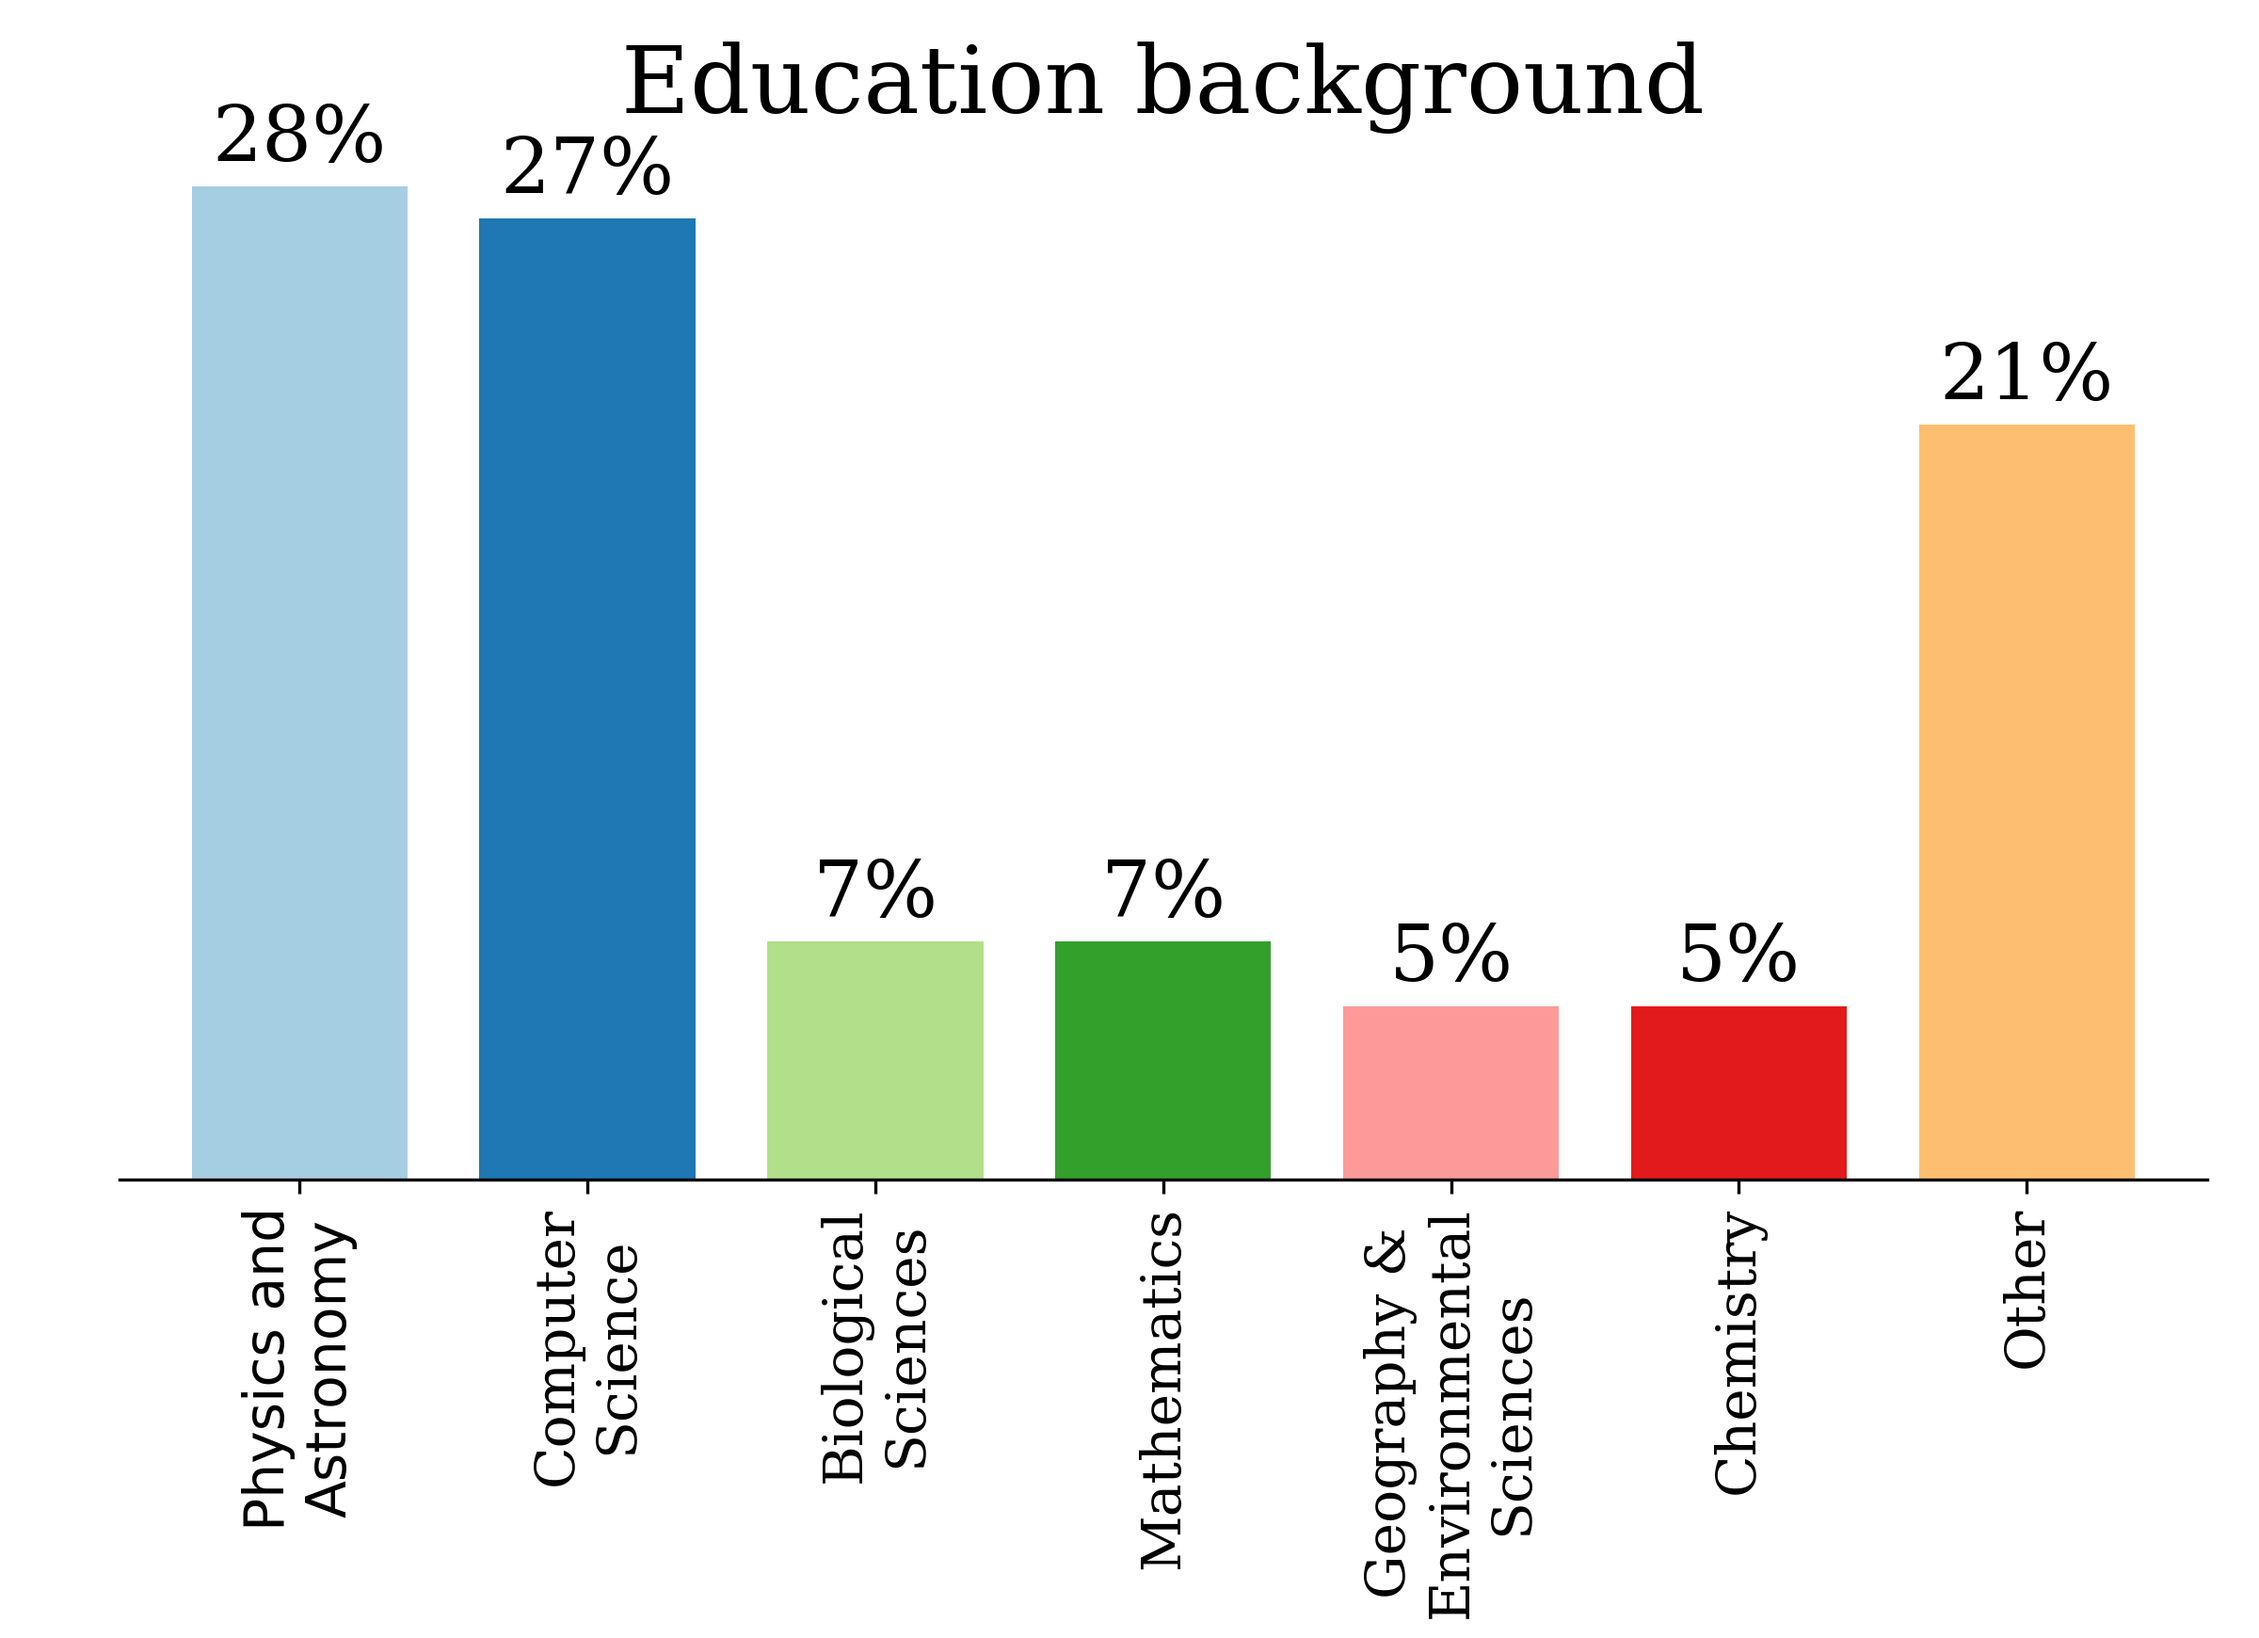
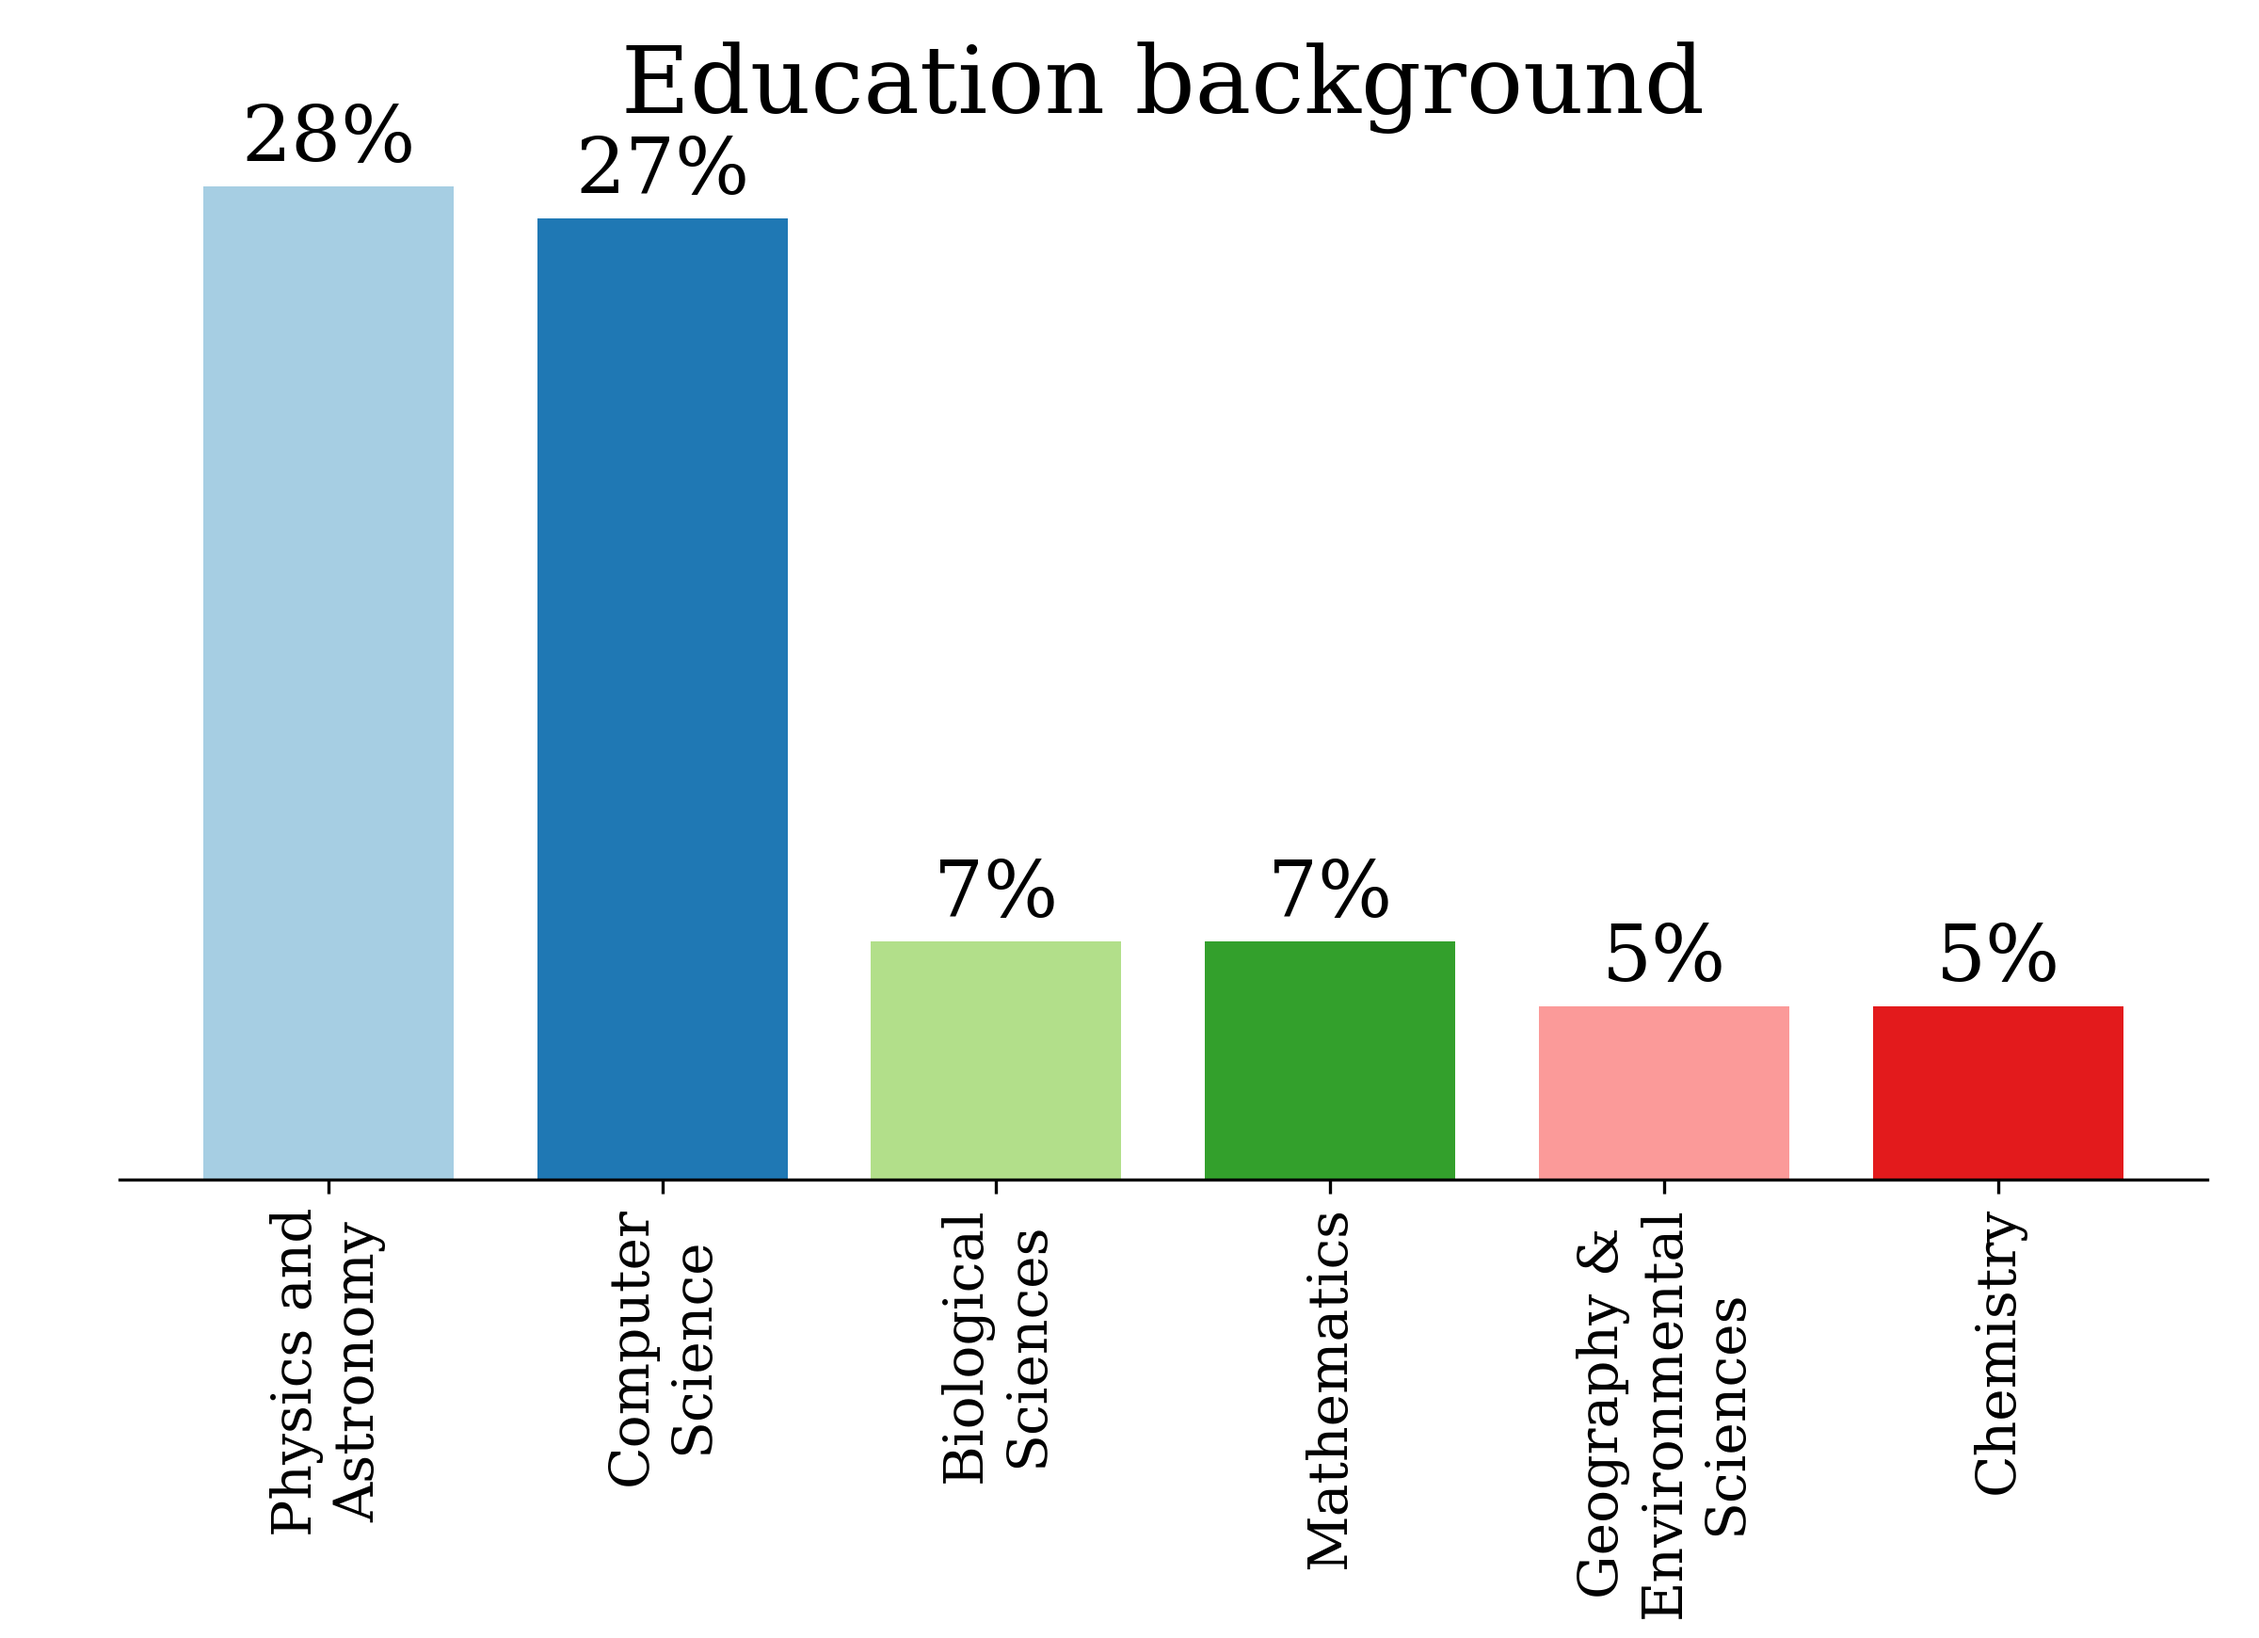
Adding charts and new data

diff --git a/chart_details_lookup.py b/chart_details_lookup.py
@@ -21,6 +21,7 @@ plot_details is a dictionary of lists. The lists are of the form:
  6. title for y axis, or use False if no title to be shown
  7. title of chart, or use False if no title
  8. whether to show value labels on bars (True/False)
+ 9. how many labels to skip to clean up x axis (or False to skip none)
  9. fraction of chart dedicated to x-axis tick labels (0-1)
 10. size of title font
 11. size of axis fonts
@@ -28,7 +29,9 @@ plot_details is a dictionary of lists. The lists are of the form:
 '''
 
 plot_details = {
-    'edu1':['edu1.csv', 'percentage', False, 0, 15, 'Percentage', 'Education level', True, 0.1,  24, 14, 24],
-    'edu2':['edu2.csv', 'percentage', False, 90, 20, 'Percentage', 'Education background', False, 0.3, 24, 10, 14],
-    'edu2p2':['edu2p2.csv', 'percentage', False, 90, 15, 'Percentage', 'Education background', True, 0.28,  24, 14, 20],
+#    'edu1':['edu1.csv', 'percentage', False, 0, 15, 'Percentage', 'Education level', True, 0.1,  24, 14, 24],
+#    'edu2':['edu2.csv', 'percentage', False, 90, 20, 'Percentage', 'Education background', False, 0.3, 24, 10, 14],
+#    'edu2p2':['edu2p2.csv', 'percentage', False, 90, 15, 'Percentage', 'Top five education backgrounds', True, 0.28,  24, 14, 20],
+#    'currentEmp1':['currentEmp1.csv', 'percentage', False, 45, 15, 'Percentage', 'Where do you work?', True, 0.28,  24, 12, 20],
+    'currentEmp13':['currentEmp13.csv', 'percentage', False, 90, 15, 'Percentage', 'Where do you work?', False, 0.28,  24, 12, 20]
     }

diff --git a/graphing.py b/graphing.py
@@ -93,10 +93,11 @@ def plot_bar_matplot(df, current_chart):
 
     # Make plot scale to fit plot area
     plt.tight_layout()
-    
+
     # Use the bespoke labels, and rotate them if necessary
     
     fig.set_xticklabels(labels, rotation=x_axis_label_rotation, fontname=global_specs['font_name'], fontsize=body_size)
+
 
     # Turn off the spines
     fig.spines['left'].set_visible(False)
